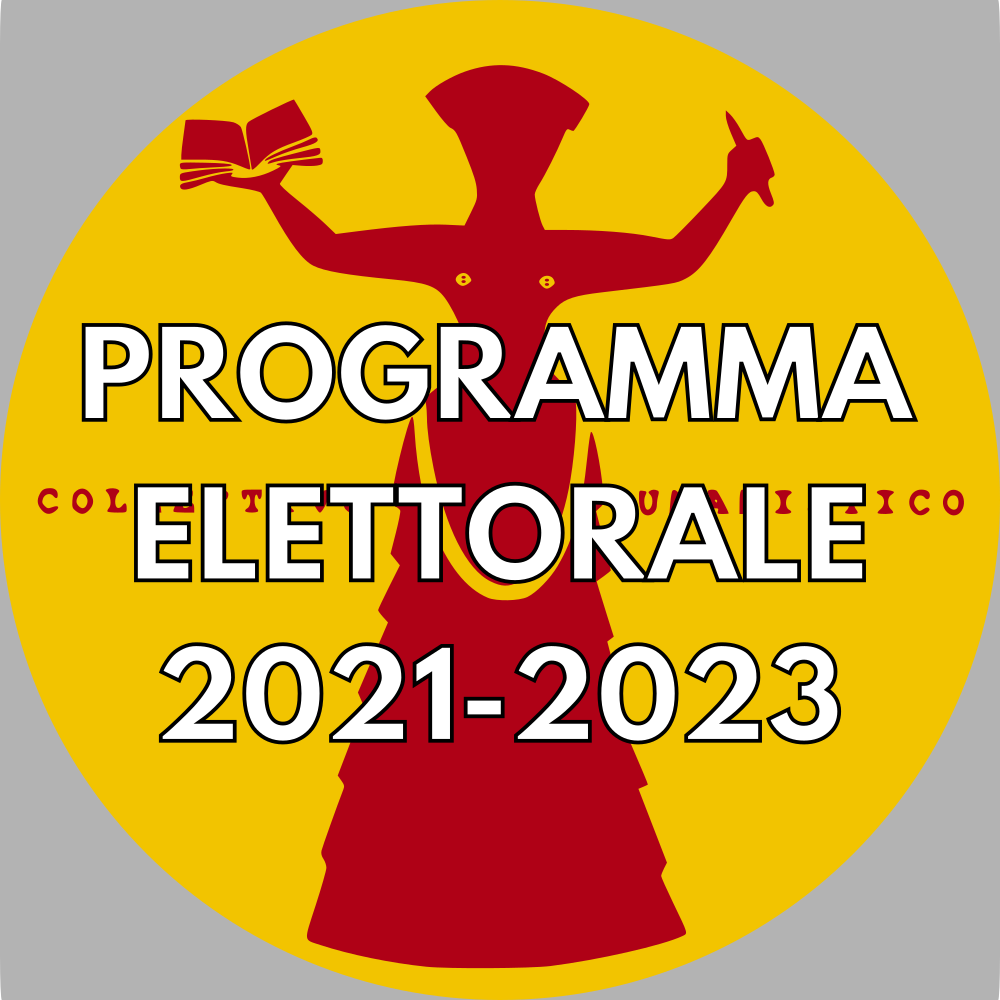
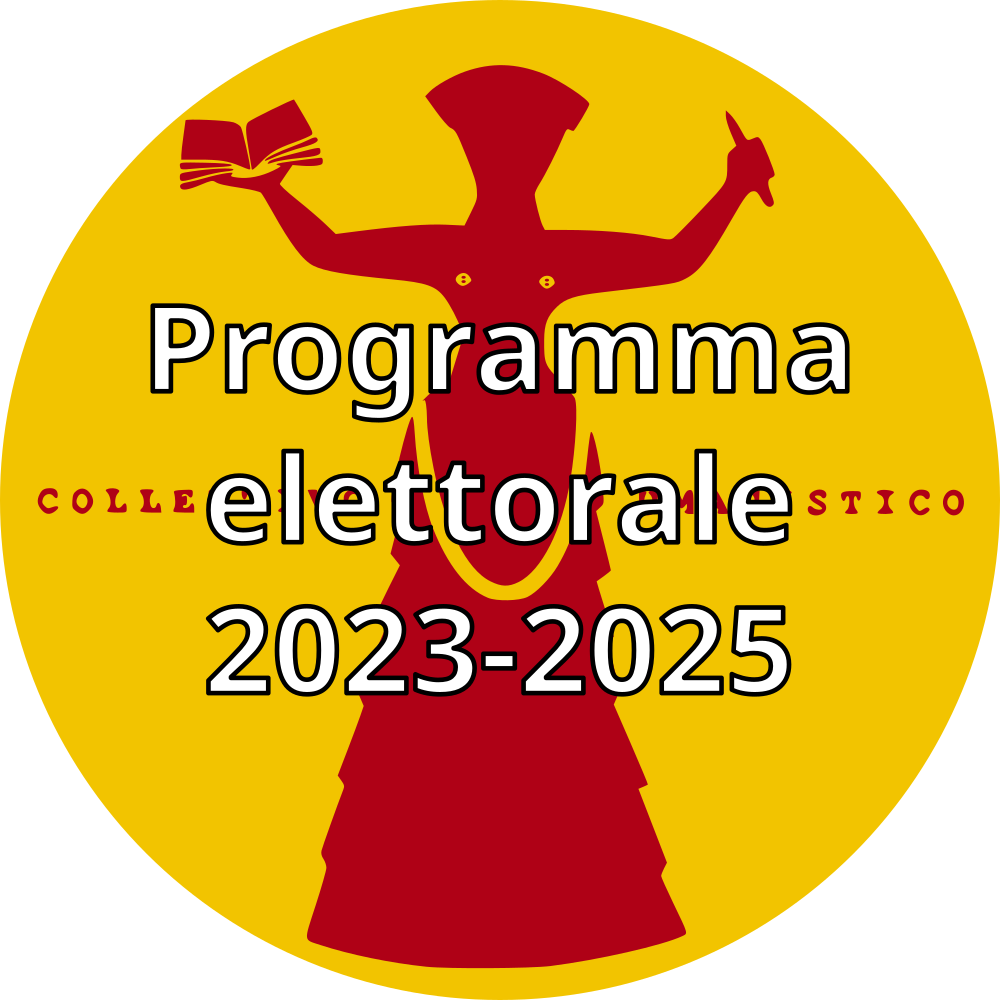
prog e loghi coll elezioni 23

diff --git a/elezioni2023.md b/elezioni2023.md
@@ -33,7 +33,7 @@ sections:
 
   - type: members2.html
     section_id: programmi
-    title: Programmi Elettorali Biennio 2023-2025. A breve saranno online anche i programmi dei singoli collettivi, stay tuned!
+    title: Programmi Elettorali Biennio 2023-2025
     #Cosa sono le controguide?  <br /> Sono dei piccoli libriccini che raccolgono informazioni utili sulla vita all'università, consigli, divertenti aneddoti e informazioni su SdS, i Collettivi e le nostre attività!  <br />
     background_style: bg-info text-white
     members:
@@ -41,4 +41,20 @@ sections:
         text: programma elettorale '23-'25
         image: /elezioni2023/asset/ateneo.png
         url: '/QR_Statici/P_SDS_23'
+      - title: Collettivo di Medicina Codice Rosso
+        text: Programma elettorale del collettivo di medicina
+        image: /elezioni2023/asset/CR.png
+        url: '/QR_Statici/P_CR_23'
+      - title: Collettivo di Psicologia Laboratorio15
+        text: Programma elettorale del collettivo di psicologia
+        image: /elezioni2023/asset/lab15.png
+        url: '/QR_Statici/P_L15_23'
+      - title: Collettivo di Scienze
+        text: Programma elettorale del collettivo di SSMMFFNN
+        image: /elezioni2023/asset/scienze.png
+        url: '/QR_Statici/P_SCIE_23'
+      - title: CUMA - Collettivo Umanistico
+        text: Programma elettorale del Collettivo Umanistico
+        image: /elezioni2023/asset/cuma.png
+        url: '/QR_Statici/P_CUMA_23'
 ---

diff --git a/QR_Statici/Cartella_P_23.md b/QR_Statici/Cartella_P_23.md
@@ -7,7 +7,7 @@
 <head>  
     <title>HTML Redirect</title>  
     <meta http-equiv="refresh"
-        content="0; url = https://cloud.lilik.it/s/8q7zndGCTYAZKSw" />  
+        content="0; url = https://cloud.lilik.it/s/sy4pyGWBcL7WNdN" />  
 </head>  
 
 <body>  
@@ -18,7 +18,7 @@
     <p style="text-align:center;">  
         Ti stiamo reindirizzando al link richiesto
         <br> <br>
-        <a href="https://cloud.lilik.it/s/8q7zndGCTYAZKSw">Se il tuo browser non supporta il redirect, clicca qui</a>
+        <a href="https://cloud.lilik.it/s/sy4pyGWBcL7WNdN">Se il tuo browser non supporta il redirect, clicca qui</a>
     </p>  
 </body>  
 

diff --git a/QR_Statici/P_CR_23.md b/QR_Statici/P_CR_23.md
@@ -7,7 +7,7 @@
 <head>  
     <title>HTML Redirect</title>  
     <meta http-equiv="refresh"
-        content="0; url = https://cloud.lilik.it/s/8q7zndGCTYAZKSw" />  
+        content="0; url = https://cloud.lilik.it/s/ESzqyR9TGKYiawm" />  
 </head>  
 
 <body>  
@@ -18,7 +18,7 @@
     <p style="text-align:center;">  
         Ti stiamo reindirizzando al link richiesto
         <br> <br>
-        <a href="https://cloud.lilik.it/s/8q7zndGCTYAZKSw">Se il tuo browser non supporta il redirect, clicca qui</a>
+        <a href="https://cloud.lilik.it/s/ESzqyR9TGKYiawm">Se il tuo browser non supporta il redirect, clicca qui</a>
     </p>  
 </body>  
 

diff --git a/QR_Statici/P_CUMA_23.md b/QR_Statici/P_CUMA_23.md
@@ -7,7 +7,7 @@
 <head>  
     <title>HTML Redirect</title>  
     <meta http-equiv="refresh"
-        content="0; url = https://cloud.lilik.it/s/8q7zndGCTYAZKSw" />  
+        content="0; url = https://cloud.lilik.it/s/P7gDGDJdSiT85Rp" />  
 </head>  
 
 <body>  
@@ -18,7 +18,7 @@
     <p style="text-align:center;">  
         Ti stiamo reindirizzando al link richiesto
         <br> <br>
-        <a href="https://cloud.lilik.it/s/8q7zndGCTYAZKSw">Se il tuo browser non supporta il redirect, clicca qui</a>
+        <a href="https://cloud.lilik.it/s/P7gDGDJdSiT85Rp">Se il tuo browser non supporta il redirect, clicca qui</a>
     </p>  
 </body>  
 

diff --git a/QR_Statici/P_L15_23.md b/QR_Statici/P_L15_23.md
@@ -7,7 +7,7 @@
 <head>  
     <title>HTML Redirect</title>  
     <meta http-equiv="refresh"
-        content="0; url = https://cloud.lilik.it/s/8q7zndGCTYAZKSw" />  
+        content="0; url = https://cloud.lilik.it/s/SPfcwFJG4JK9rj2" />  
 </head>  
 
 <body>  
@@ -18,7 +18,7 @@
     <p style="text-align:center;">  
         Ti stiamo reindirizzando al link richiesto
         <br> <br>
-        <a href="https://cloud.lilik.it/s/8q7zndGCTYAZKSw">Se il tuo browser non supporta il redirect, clicca qui</a>
+        <a href="https://cloud.lilik.it/s/SPfcwFJG4JK9rj2">Se il tuo browser non supporta il redirect, clicca qui</a>
     </p>  
 </body>  
 

diff --git a/QR_Statici/P_SCIE_23.md b/QR_Statici/P_SCIE_23.md
@@ -7,7 +7,7 @@
 <head>  
     <title>HTML Redirect</title>  
     <meta http-equiv="refresh"
-        content="0; url = https://cloud.lilik.it/s/4oqaJ38gWRx3brz" />  
+        content="0; url = https://cloud.lilik.it/s/LAK6CMHHaRHZf75" />  
 </head>  
 
 <body>  
@@ -18,7 +18,7 @@
     <p style="text-align:center;">  
         Ti stiamo reindirizzando al link richiesto
         <br> <br>
-        <a href="https://cloud.lilik.it/s/4oqaJ38gWRx3brz">Se il tuo browser non supporta il redirect, clicca qui</a>
+        <a href="https://cloud.lilik.it/s/LAK6CMHHaRHZf75">Se il tuo browser non supporta il redirect, clicca qui</a>
     </p>  
 </body>  
 
